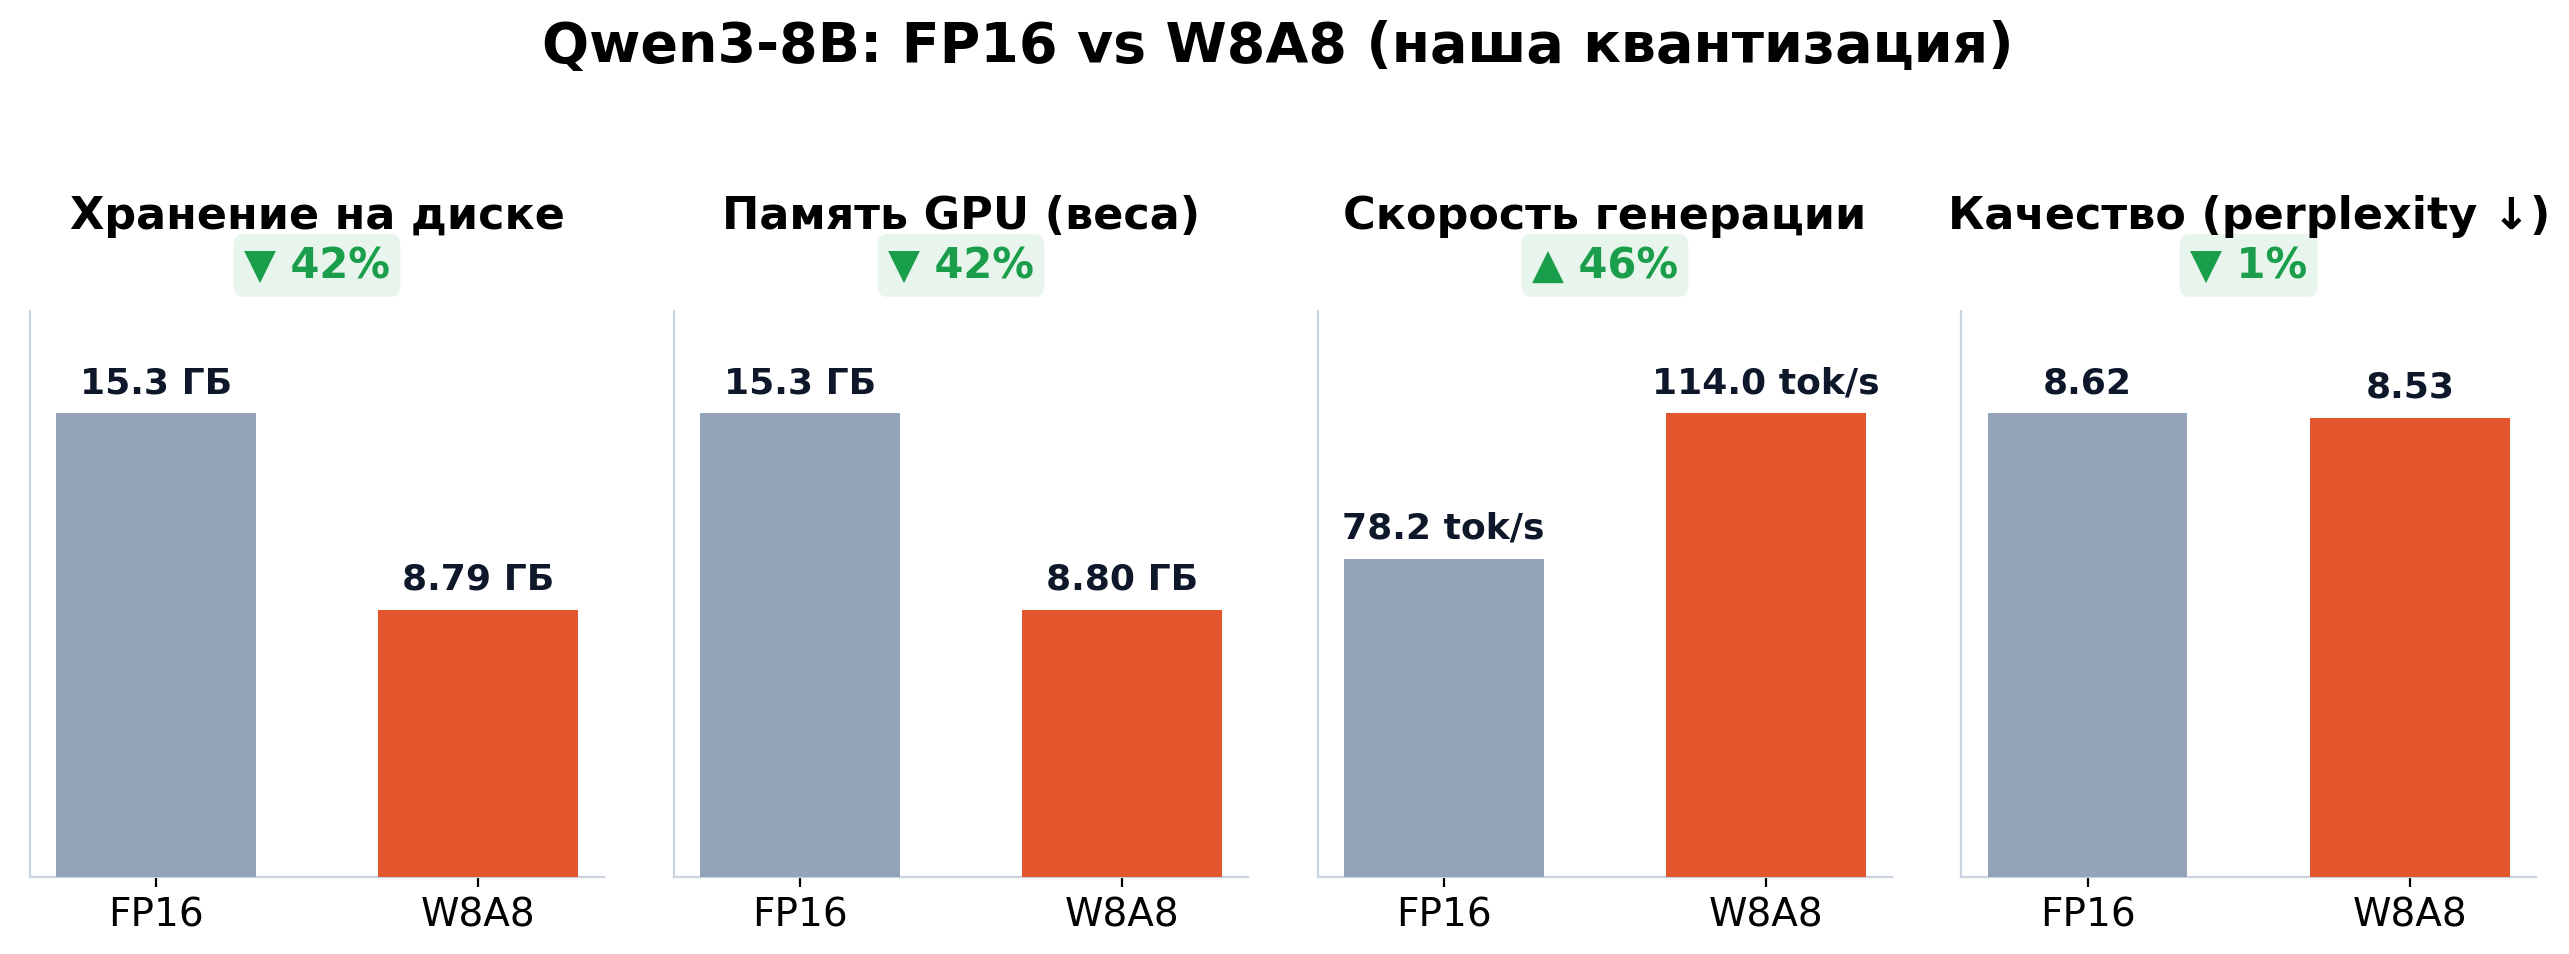
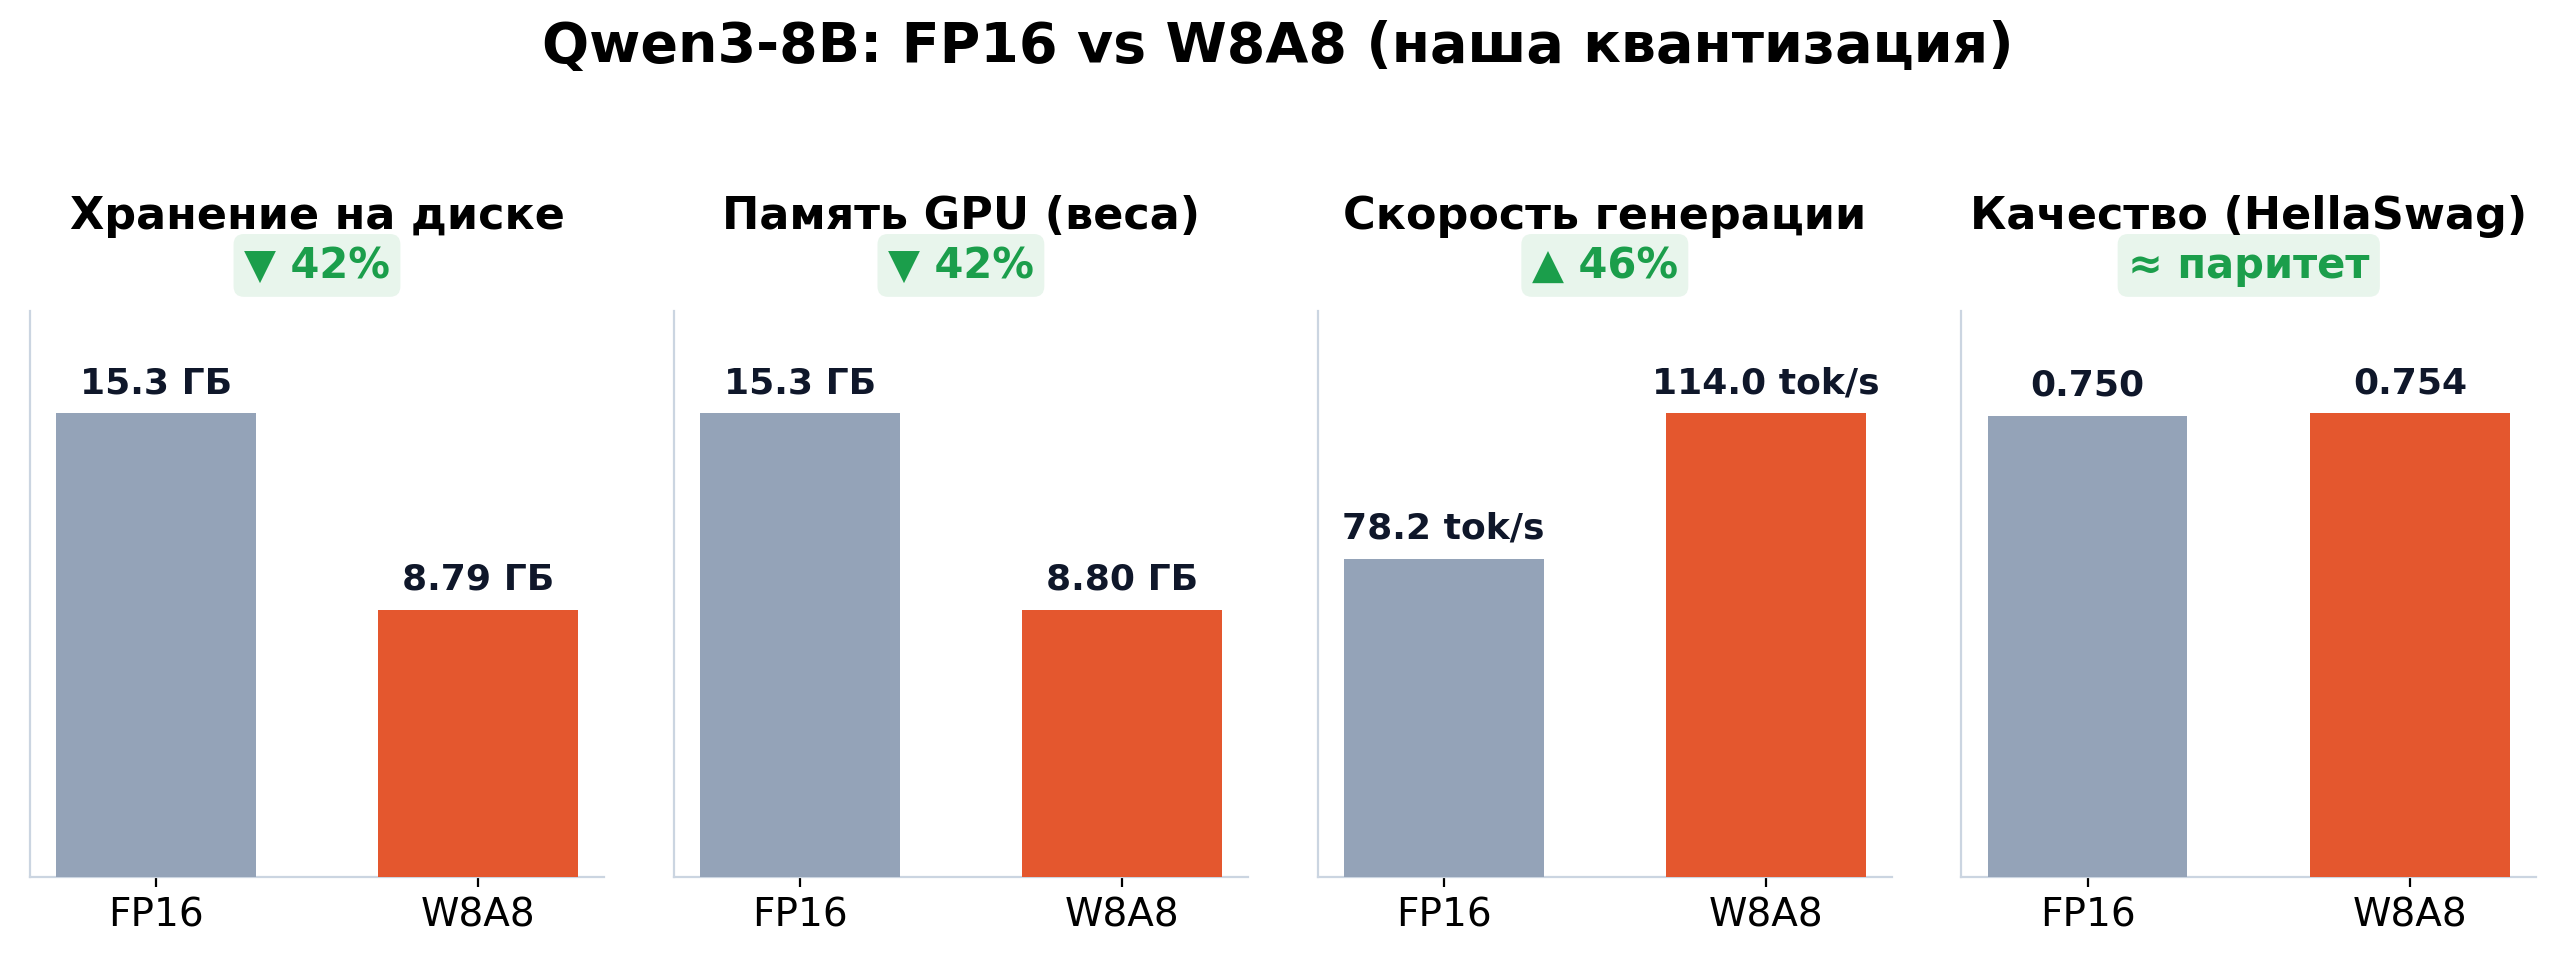
docs: quality shown via benchmarks, not perplexity
- README table: HellaSwag + GSM8K with parity verdict; ppl moved to REPORT
- plot quality panel: HellaSwag acc_norm with parity badge
  (ppl 'improvement' was confusing readers)

diff --git a/src/a2_kvant/plot.py b/src/a2_kvant/plot.py
@@ -24,8 +24,10 @@ _PANELS = [
     ("disk_size_gb", "Хранение на диске", "ГБ", True),
     ("vram_alloc_gb", "Память GPU (веса)", "ГБ", True),
     ("tokens_per_s", "Скорость генерации", "tok/s", False),
-    ("perplexity", "Качество (perplexity ↓)", "", True),
+    ("hellaswag_acc_norm", "Качество (HellaSwag)", "", False),
 ]
+
+_PARITY_THRESHOLD = 1.5  # |Δ%| ниже порога — статистический паритет, не «улучшение»
 
 _BASE_COLOR = "#94A3B8"   # FP16 — нейтральный серо-синий
 _OURS_COLOR = "#E4572E"   # квантованная — акцент
@@ -33,10 +35,12 @@ _GOOD_COLOR = "#1B9E4B"   # бейдж улучшения
 
 
 def _badge(base: float, quant: float, lower_is_better: bool) -> str:
-    """Improvement badge text, e.g. '▼ 45%' or '▲ 46%'."""
+    """Improvement badge, e.g. '▼ 42%' / '▲ 46%'; '≈ паритет' внутри шума."""
     if base in (None, 0) or quant is None:
         return ""
     delta = (quant - base) / base * 100.0
+    if abs(delta) < _PARITY_THRESHOLD:
+        return "≈ паритет"
     arrow = "▼" if delta < 0 else "▲"
     return f"{arrow} {abs(delta):.0f}%"
 
@@ -69,7 +73,7 @@ def render_comparison(compare_json: str | Path, out_png: str | Path, title: str)
         top = max(bvals) if max(bvals) > 0 else 1.0
         ax.set_ylim(0, top * 1.22)
         for bar, v in zip(bars, bvals):
-            label = f"{v:.1f}" if v >= 10 else f"{v:.2f}"
+            label = f"{v:.1f}" if v >= 10 else (f"{v:.3f}" if v < 1 else f"{v:.2f}")
             if unit:
                 label += f" {unit}"
             ax.text(bar.get_x() + bar.get_width() / 2, v + top * 0.03, label,

diff --git a/README.md b/README.md
@@ -12,9 +12,13 @@
 | Хранение на диске | 15.26 ГиБ | **8.79 ГиБ** | **−42%** |
 | Память GPU (веса) | 15.27 ГиБ | **8.80 ГиБ** | **−42%** |
 | Скорость (vLLM, H200) | 78.2 tok/s | **114.0 tok/s** | **+46%** |
-| Качество (perplexity ↓) | 8.62 | **8.53** | сохранено |
-| HellaSwag (полный), acc_norm | 0.750 ± .004 | **0.754 ± .004** | паритет |
-| GSM8K (5-shot), exact-match | 0.906 ± .013 | **0.910 ± .013** | паритет |
+| Качество: HellaSwag (полный), acc_norm | 0.750 ± .004 | 0.754 ± .004 | **паритет** |
+| Качество: GSM8K (5-shot), exact-match | 0.906 ± .013 | 0.910 ± .013 | **паритет** |
+
+Качество проверено на двух независимых бенчмарках (lm-eval-harness, один
+seed и путь для обеих моделей): различия в пределах статистической
+погрешности — сжатие вдвое без измеримой потери качества. Perplexity и полная
+методика — в [REPORT.md](REPORT.md).
 
 Подробный отчёт с методикой: **[REPORT.md](REPORT.md)**.
 
